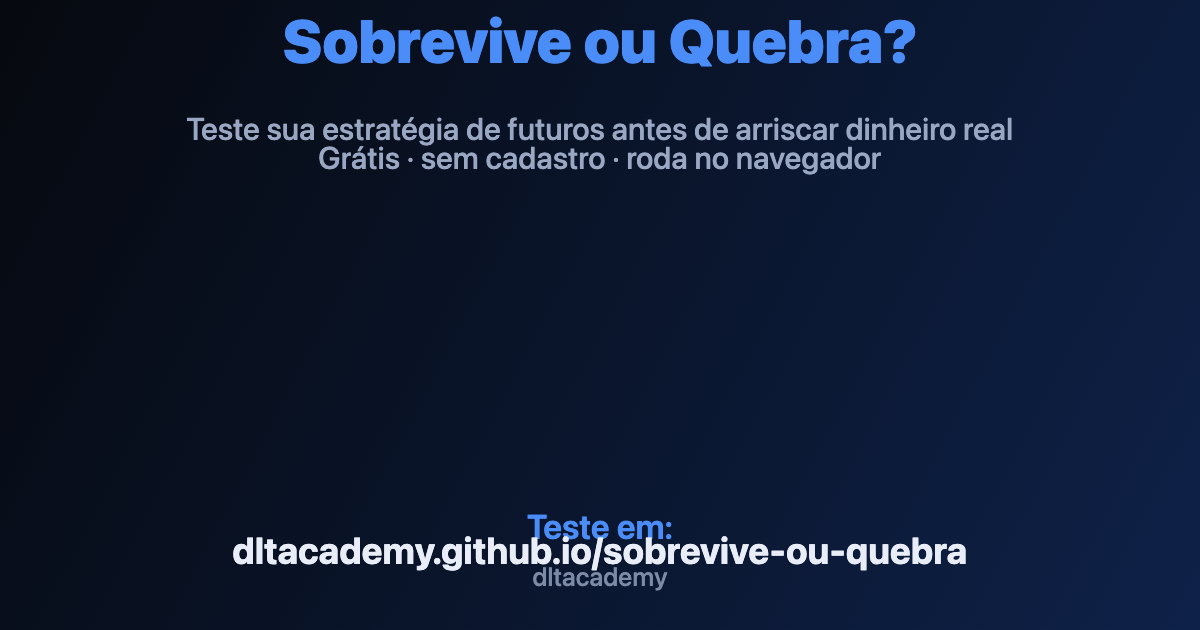
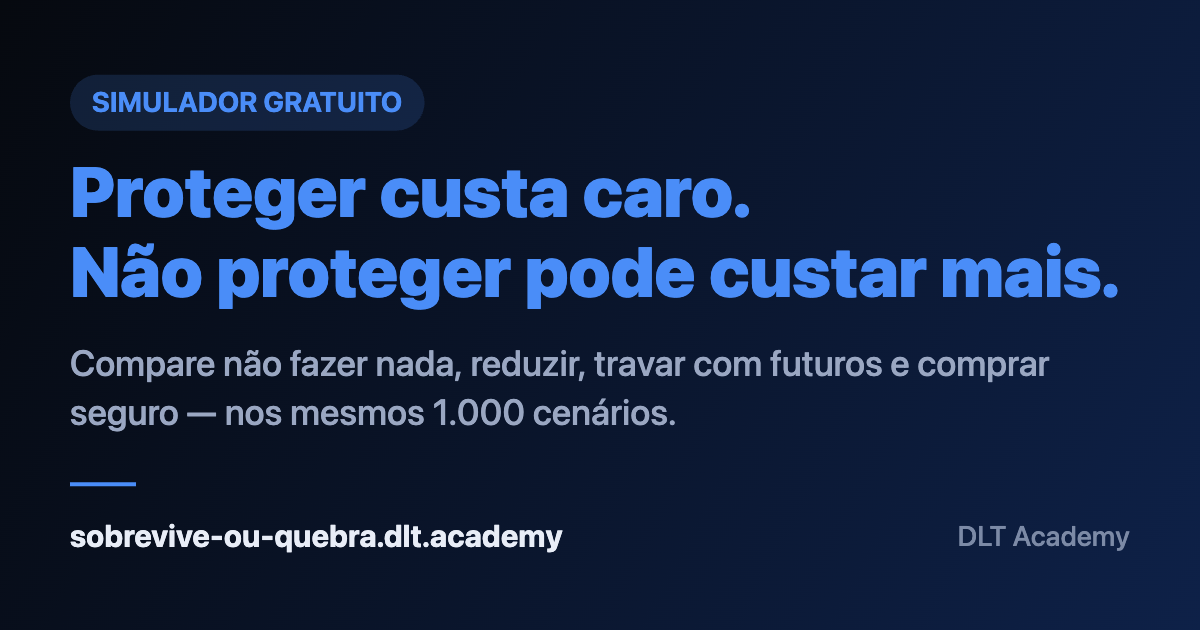
fecha os gates visuais do reenquadramento
Achados da revisão em janela alta e no celular:

- `hidden` nao escondia nada em .control-grid, porque display:grid vence o
  atributo. Os controles de seguro apareciam numa simulacao de futuros. O
  arquivo ja tinha dois remendos pontuais para o mesmo problema
  (.router-result, .benefit-form); trocados por uma regra unica.
- a caixa "cenarios em que a protecao quebrou" ficava sozinha numa segunda
  linha mostrando "—" nas rotas que nao podem ser liquidadas; agora some.
- os rotulos em linguagem simples sao mais longos que os tecnicos que
  existiam antes e encostavam no valor no celular; passam a quebrar linha.
- og-image novo, gerado pelo card-preview do kit, com a promessa atual.

diff --git a/index.html b/index.html
@@ -32,7 +32,7 @@
 
 <meta name="theme-color" content="#06090F">
 <link rel="icon" type="image/png" href="assets/dlt-mark.png">
-<link rel="stylesheet" href="styles.css?v=2026-07-20b">
+<link rel="stylesheet" href="styles.css?v=2026-07-20d">
 
 
 <!-- Dados estruturados (JSON-LD é bloco de dados, não executa — ok com o CSP) -->
@@ -153,7 +153,7 @@
           <div class="stat-box"><div class="val" id="stat-ruins-sem">—</div><div class="label">cenários ruins sem proteção</div></div>
           <div class="stat-box"><div class="val" id="stat-ruins-com">—</div><div class="label">cenários ruins com proteção</div></div>
           <div class="stat-box"><div class="val" id="stat-custo">—</div><div class="label">efeito médio no bolso</div></div>
-          <div class="stat-box"><div class="val" id="stat-liquidacao">—</div><div class="label">cenários em que a proteção quebrou</div></div>
+          <div class="stat-box" id="box-liquidacao"><div class="val" id="stat-liquidacao">—</div><div class="label">cenários em que a proteção quebrou</div></div>
         </div>
 
         <div class="btn-row">
@@ -317,10 +317,10 @@
   </div>
 </footer>
 
-<script src="config.js?v=2026-07-20b"></script>
-<script src="js/protection.js?v=2026-07-20b"></script>
-<script src="js/chart.js?v=2026-07-20b"></script>
-<script src="js/share-card.js?v=2026-07-20b"></script>
-<script src="js/app.js?v=2026-07-20b"></script>
+<script src="config.js?v=2026-07-20d"></script>
+<script src="js/protection.js?v=2026-07-20d"></script>
+<script src="js/chart.js?v=2026-07-20d"></script>
+<script src="js/share-card.js?v=2026-07-20d"></script>
+<script src="js/app.js?v=2026-07-20d"></script>
 </body>
 </html>

diff --git a/styles.css b/styles.css
@@ -50,6 +50,13 @@ body {
   padding: 0 20px;
 }
 
+/* O atributo `hidden` vale display:none, mas qualquer regra de display
+   posterior o derrota — foi o que fez os controles de seguro aparecerem
+   numa simulação de futuros. Havia dois remendos pontuais no arquivo
+   (.router-result[hidden], .benefit-form[hidden]); esta regra resolve a
+   classe inteira do problema de uma vez. */
+[hidden] { display: none !important; }
+
 /* Links de conteudo.
    Sem esta regra o navegador aplica os padroes dele: #0000EE no link
    comum e #551A8B no visitado. Sobre o navy (--bg) isso rende 2,1:1 e
@@ -158,7 +165,10 @@ h2 .num {
 /* Sliders */
 .control-grid { display: grid; gap: 18px; }
 .control { display: grid; gap: 6px; }
-.control-label { display: flex; justify-content: space-between; font-size: 14px; color: var(--text-dim); }
+/* gap + wrap porque os rótulos em linguagem simples ("Quanto você aguenta
+   perder sem quebrar") são bem mais longos que os rótulos técnicos que
+   existiam antes, e no celular encostavam no valor. */
+.control-label { display: flex; justify-content: space-between; gap: 12px; flex-wrap: wrap; font-size: 14px; color: var(--text-dim); }
 .control-label strong { color: var(--text); font-weight: 600; }
 input[type="range"] {
   -webkit-appearance: none;

diff --git a/js/app.js b/js/app.js
@@ -416,7 +416,10 @@ function renderSimResult(result, params) {
   document.getElementById("stat-custo").textContent =
     params.rota === "nada" ? "—" : (diff >= 0 ? "+" : "−") + formatBRLShort(Math.abs(diff));
 
+  // Só futuros podem ser liquidados; nas outras rotas a caixa não se aplica
+  // e uma caixa vazia sozinha numa linha só polui o resultado.
   const liq = result.taxaLiquidacaoProtecao;
+  document.getElementById("box-liquidacao").hidden = liq === null;
   document.getElementById("stat-liquidacao").textContent =
     liq === null ? "—" : (liq * 100).toFixed(0) + "%";
 